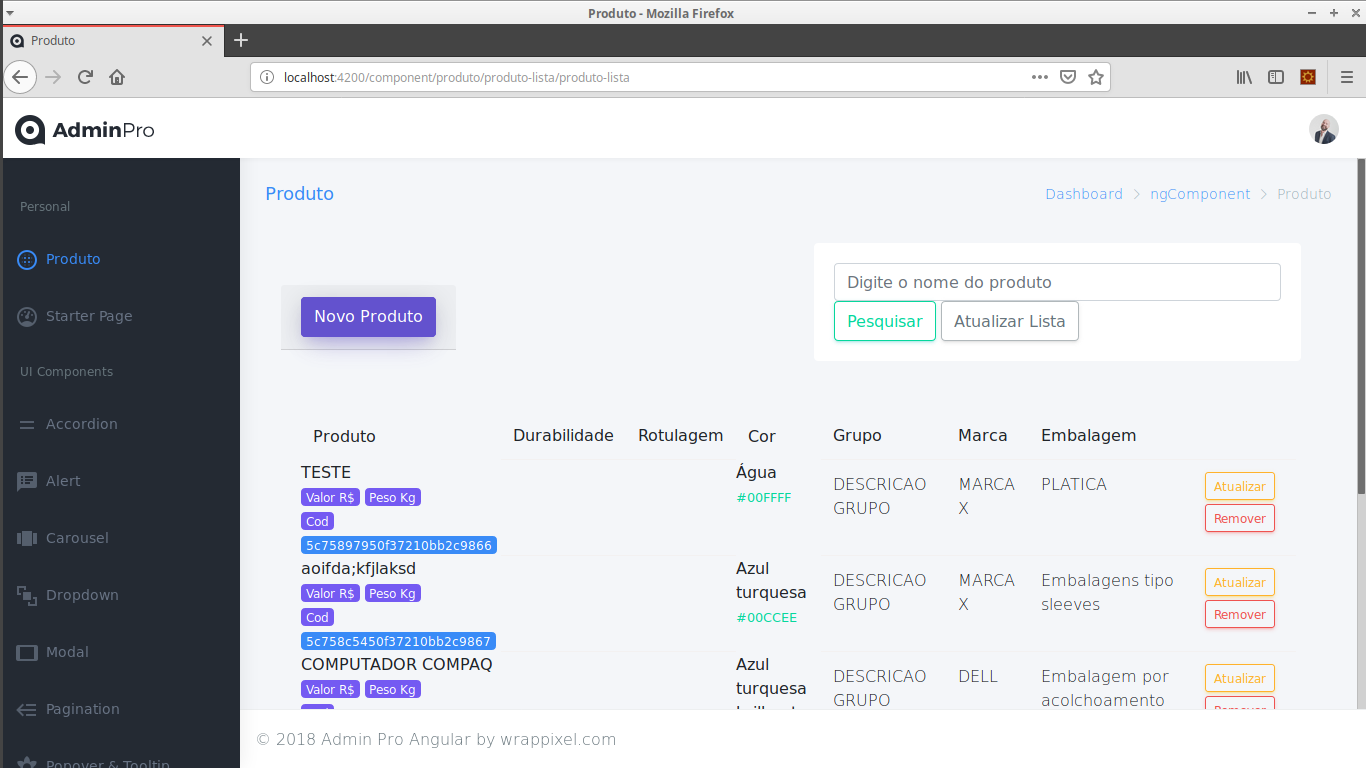
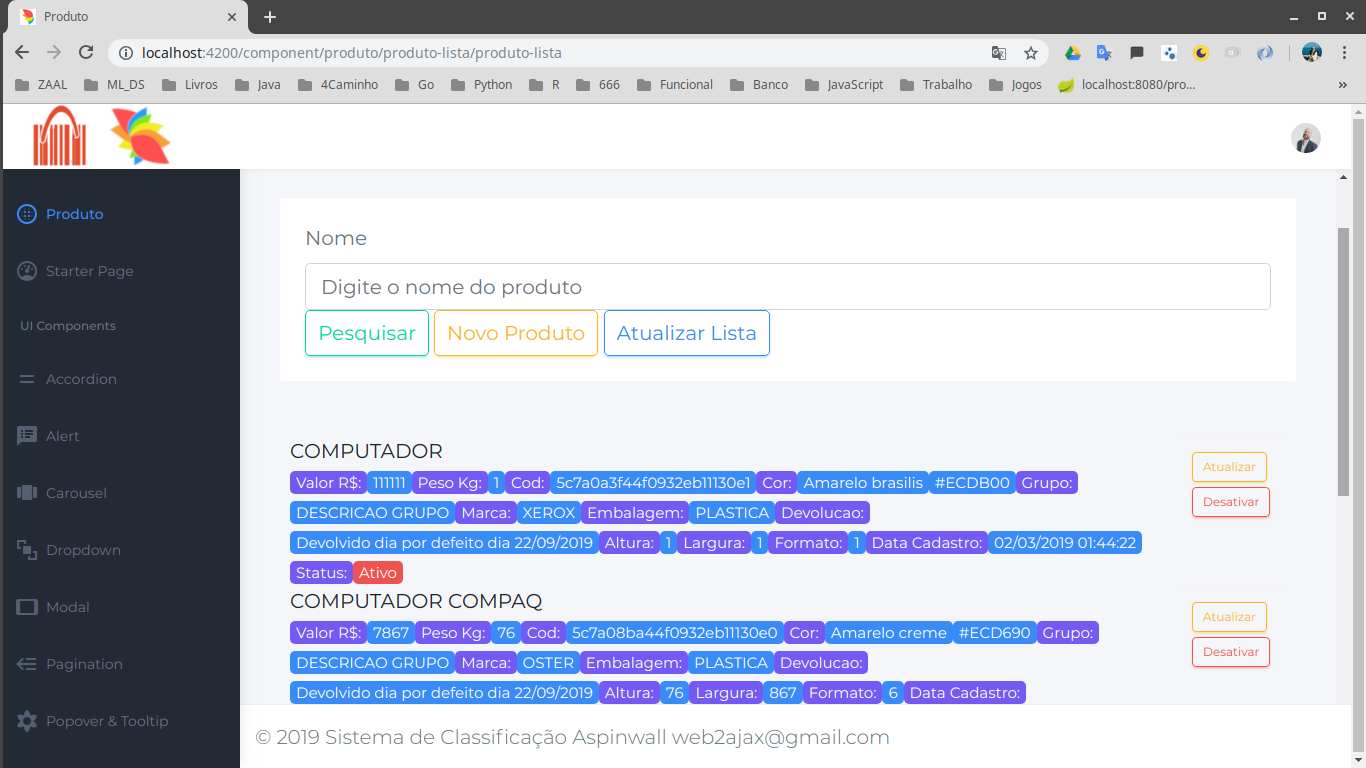
tipo unidade

diff --git a/SistemaCliente/src/app/component/produto/produto-lista/produto-lista.component.ts b/SistemaCliente/src/app/component/produto/produto-lista/produto-lista.component.ts
@@ -20,6 +20,7 @@ import { Grupo } from '../../paginas/grupo/grupo';
 import { Embalagem } from '../../paginas/embalagem/embalagem';
 
 import * as moment from 'moment';
+import { Unidade } from '../../paginas/unidade/unidade';
 
 @Component({
   selector: 'app-produto-lista',
@@ -37,14 +38,14 @@ export class ProdutoListaComponent implements OnInit {
   grupos$: Observable<Grupo[]>;
   embalagens$: Observable<Embalagem[]>;
   devolucaos$: Observable<Devolucao[]>;
-
+  unidades$: Observable<Unidade[]>;
   error$ = new Subject<boolean>();
   closeResult: string;
   form: FormGroup;
   submitted = false;
-
   descricao: string;
   datacadastro: string;
+  status: string;
 
   constructor(
 
@@ -54,6 +55,7 @@ export class ProdutoListaComponent implements OnInit {
     private grupoService: GrupoService,
     private embalagemService: EmbalagemService,
     private devolucaoService: DevolucaoService,
+    private unidadeService: UnidadeService,
 
     private fb: FormBuilder,
     private modalService: NgbModal,
@@ -63,9 +65,9 @@ export class ProdutoListaComponent implements OnInit {
 
   ngOnInit() {
     this.onIniciaProduto();
-   // this.datacadastro = moment().format('DD/MM/YYYY HH:mm:ss');
-   this.datacadastro = moment().format('DD/MM/YYYY');
-    console.log('sDATA CADASTRO : ' + this.datacadastro);
+    this.datacadastro = moment().format('DD/MM/YYYY HH:mm:ss');
+    this.status = 'Ativo';
+    console.log('DATA CADASTRO : ' + this.datacadastro);
   }
 
 ngAfterContentInit(): void {
@@ -84,7 +86,7 @@ onForm() {
     durabilidade: [],
     peso: [],
     rotulagem: [],
-    status: [],
+    status: this.status,
     cor: [], //[null, [Validators.required, Validators.minLength(3), Validators.maxLength(250)]],
     grupo: [],
     marca: [],
@@ -94,11 +96,12 @@ onForm() {
     altura: [],
     largura: [],
     formato: [],
-    datacadastro: this.datacadastro
+    datacadastro: this.datacadastro,
+    unidade: []
   });
 }
 
-  onRefreshProduto() {
+   onRefreshProduto() {
     this.produtos$ = this.produtoService.list();
     if (this.produtos$ != null) {
       this.handleSucesso();
@@ -245,6 +248,7 @@ onForm() {
     this.form.reset();
     this.handleSucesso();
   }
+
   onSubmitShearch() {
     this.searchProdutos(this.descricao);
     this.handleSucesso();

diff --git a/SistemaCliente/src/app/component/produto/produto-lista/produto-lista.component.html b/SistemaCliente/src/app/component/produto/produto-lista/produto-lista.component.html
@@ -287,6 +287,7 @@
             Largura:{{produto.largura}}<br>
             Formato:{{produto.formato}}<br>
             Formato:{{produto.datacadastro}}<br>
+            Formato:{{produto.status}}<br>
           </ng-template>
           <strong 
           [ngbPopover]="popContentProd" 
@@ -347,6 +348,10 @@
         <a href="#" class="badge badge-primary">Data Cadastro:</a>
         <a href="#" class="badge badge-info" data-toggle="tooltip" data-placement="top"
                    title="Daata de Cadastro">{{ produto.datacadastro }}</a> 
+
+        <a href="#" class="badge badge-primary">Status:</a>
+        <a href="#" class="badge badge-danger" data-toggle="tooltip" data-placement="top"
+                   title="Daata de Cadastro">{{ produto.status }}</a> 
    
           <td>
             <span class="float-right">

diff --git a/SistemaCliente/src/app/component/paginas/unidade/unidade-service.ts b/SistemaCliente/src/app/component/paginas/unidade/unidade-service.ts
@@ -1,0 +1,28 @@
+import { Injectable } from '@angular/core';
+import { HttpClient } from '@angular/common/http';
+import { Unidade } from './unidade';
+import { tap, delay, take } from 'rxjs/operators';
+import { environment } from '../../../../environments/environment';
+
+@Injectable({
+  providedIn: 'root'
+})
+export class UnidadeService {
+
+  private readonly API13 = `${environment.API13}`;
+  private readonly API14 = `${environment.API14}`;
+
+  constructor(private http: HttpClient) { }
+
+  list() {
+    return this.http.get<Unidade[]>(this.API13)
+      .pipe(
+        delay(1000),
+        tap(console.log)
+      );
+  }
+
+  create(tipo) {
+    return this.http.post(this.API14, tipo).pipe(take(1));
+  }
+}

diff --git a/SistemaCliente/src/app/component/paginas/tipo/tipo.service.ts b/SistemaCliente/src/app/component/paginas/tipo/tipo.service.ts
@@ -1,0 +1,28 @@
+import { Injectable } from '@angular/core';
+import { HttpClient } from '@angular/common/http';
+import { Tipo } from './tipo';
+import { tap, delay, take } from 'rxjs/operators';
+import { environment } from '../../../../environments/environment';
+
+@Injectable({
+  providedIn: 'root'
+})
+export class TipoService {
+
+  private readonly API13 = `${environment.API13}`;
+  private readonly API14 = `${environment.API14}`;
+
+  constructor(private http: HttpClient) { }
+
+  list() {
+    return this.http.get<Tipo[]>(this.API13)
+      .pipe(
+        delay(1000),
+        tap(console.log)
+      );
+  }
+
+  create(tipo) {
+    return this.http.post(this.API14, tipo).pipe(take(1));
+  }
+}

diff --git a/SistemaCliente/src/app/component/component.module.ts b/SistemaCliente/src/app/component/component.module.ts
@@ -25,6 +25,7 @@ import { ButtonsComponent } from './buttons/buttons.component';
 
 import { ProdutoComponent } from './produto/produto.component';
 import { ProdutoListaComponent } from './produto/produto-lista/produto-lista.component';
+import { UnidadeComponent } from './unidade/unidade.component';
 
 @NgModule({
   imports: [
@@ -52,7 +53,8 @@ import { ProdutoListaComponent } from './produto/produto-lista/produto-lista.com
     CardsComponent,
     ButtonsComponent,
     ProdutoComponent,
-    ProdutoListaComponent
+    ProdutoListaComponent,
+    UnidadeComponent
   ]
 })
 export class ComponentsModule {}

diff --git a/SistemaCliente/src/app/component/produto/produto.ts b/SistemaCliente/src/app/component/produto/produto.ts
@@ -3,6 +3,7 @@ import { Embalagem } from '../paginas/embalagem/embalagem';
 import { Grupo } from '../paginas/grupo/grupo';
 import { Marca } from '../paginas/marca/marca';
 import { Devolucao } from '../paginas/devolucao/devolucao';
+import { Unidade } from '../paginas/unidade/unidade';
 export interface Produto {
 
      _id: any;
@@ -18,7 +19,8 @@ export interface Produto {
      largura?: Number;
      formato?: string;
      datacadastro?: string;
-
+     estilo?: string;
+     unidade?: Unidade[];
      cor: Cor[];
      embalagem: Embalagem[];
      grupo: Grupo[];

diff --git a/SistemaCliente/src/environments/environment.ts b/SistemaCliente/src/environments/environment.ts
@@ -18,6 +18,12 @@ export const environment = {
   API10: 'http://localhost:8080/marcas/v1/marca/',
 
   API11: 'http://localhost:8080/devolucaos/v1/devolucao/flux',
-  API12: 'http://localhost:8080/devolucaos/v1/devolucao/'
+  API12: 'http://localhost:8080/devolucaos/v1/devolucao/',
+
+  API13: 'http://localhost:8080/tipos/v1/tipo/flux',
+  API14: 'http://localhost:8080/tipos/v1/tipo/'
+
+  API15: 'http://localhost:8080/unidades/v1/unidade/flux',
+  API16: 'http://localhost:8080/unidades/v1/unidade/'
 };
 

diff --git a/SistemaCliente/src/app/layouts/full/full.component.html b/SistemaCliente/src/app/layouts/full/full.component.html
@@ -81,7 +81,7 @@
     <!-- footer -->
     <!-- ============================================================== -->
     <footer class="footer">
-        © 2018 BooksGames web2ajax@gmail.com
+        © 2019 Sistema de Classificação Aspinwall web2ajax@gmail.com
     </footer>
     <!-- ============================================================== -->
     <!-- End footer -->

diff --git a/SistemaCliente/src/app/component/paginas/unidade/unidade.ts b/SistemaCliente/src/app/component/paginas/unidade/unidade.ts
@@ -1,0 +1,6 @@
+export interface Unidade {
+    _id: any;
+    unaltura?: String;
+    unlargura?: String;
+    unidadepeso?: String;
+}

diff --git a/SistemaCliente/src/app/component/paginas/tipo/tipo.ts b/SistemaCliente/src/app/component/paginas/tipo/tipo.ts
@@ -1,0 +1,4 @@
+export interface Tipo {
+    _id?: any,
+    nome?: string,
+ }
